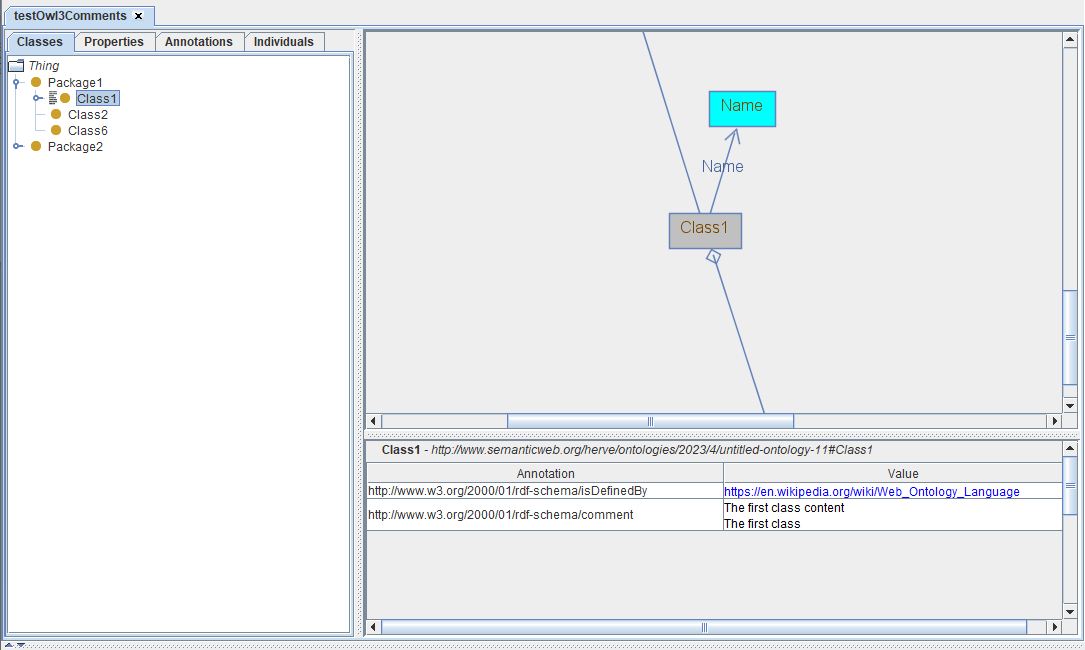
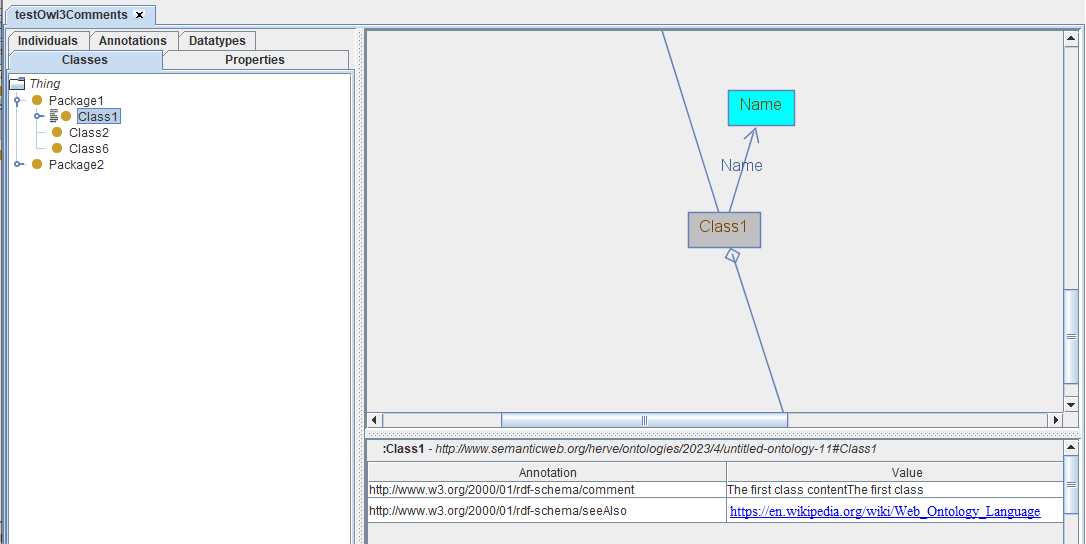
- Add a log level for the browser  - Show correctly the individuals which are parts of equivalent classes  - Fix some cases where the dependencies window would not show the dependencies on the correct element  - Support seeAlso and isDefinedBy annotations on elements in the Ontology  - Allow to spec

Changed region(s): [[0.0, 0.0, 1.0, 1.0], [0.6083, 0.125, 0.73, 0.5312], [0.9733, 0.4375, 1.0, 0.5312]]

diff --git a/web/source/sourceforge/analytics.js b/web/source/sourceforge/analytics.js
@@ -1,0 +1,12 @@
+var _gaq = _gaq || [];
+_gaq.push(['_setAccount', 'UA-20807387-1']);
+_gaq.push(['_trackPageview']);
+
+(function () {
+   var ga = document.createElement('script');
+   ga.type = 'text/javascript';
+   ga.async = true;
+   ga.src = ('https:' == document.location.protocol ? 'https://ssl' : 'http://www') + '.google-analytics.com/ga.js';
+   var s = document.getElementsByTagName('script')[0];
+   s.parentNode.insertBefore(ga, s);
+})();

diff --git a/web/source/sourceforge/sourceforge.css b/web/source/sourceforge/sourceforge.css
@@ -1,0 +1,25 @@
+div.bottomAdditional
+{
+    text-align: center;
+    font-size: 80%;
+}
+
+div.middleForIDX
+{
+    float: left;
+    width: 60%;
+    margin: 0;
+}
+
+div.right
+{
+    float: left;
+    width: 20%;
+    font-size: 80%;
+}
+
+div.left
+{
+    background: url("http://j661.sourceforge.net/prweb-sidebar.png") top left fixed no-repeat, #f5faff;
+    padding: 0px 0px 0px 25px;
+}
